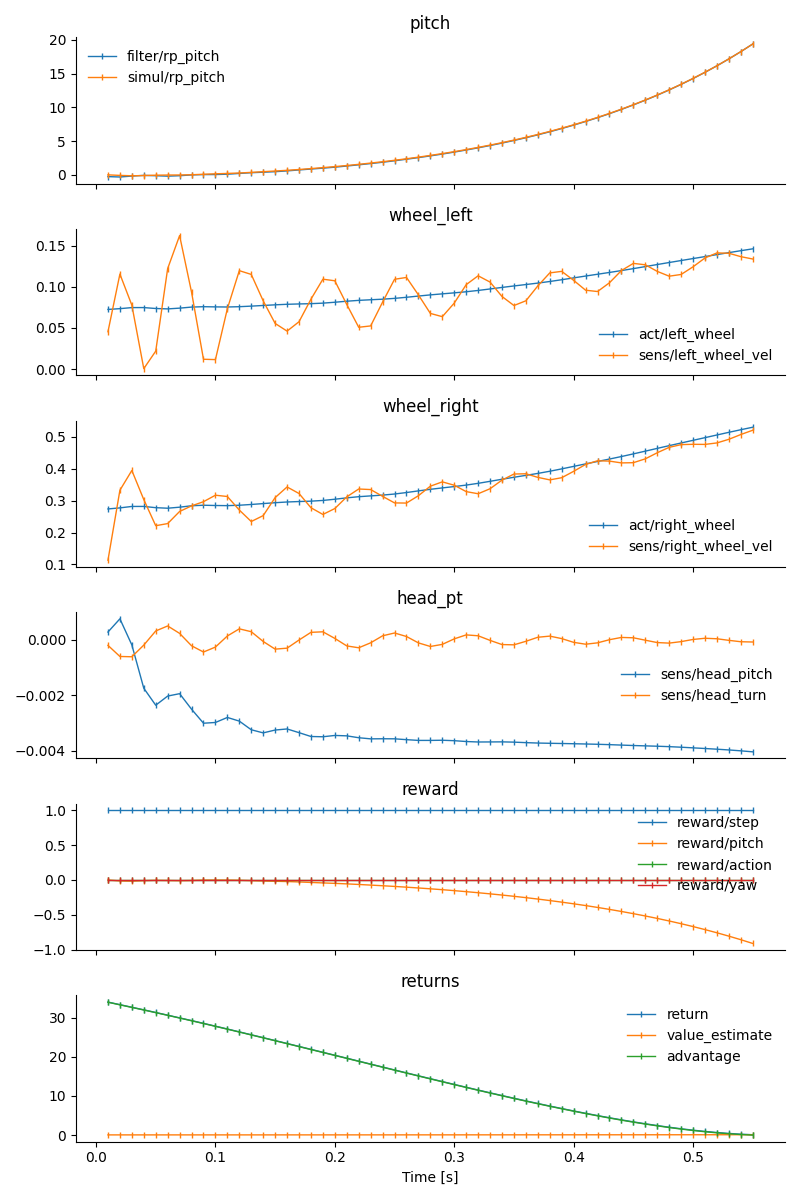
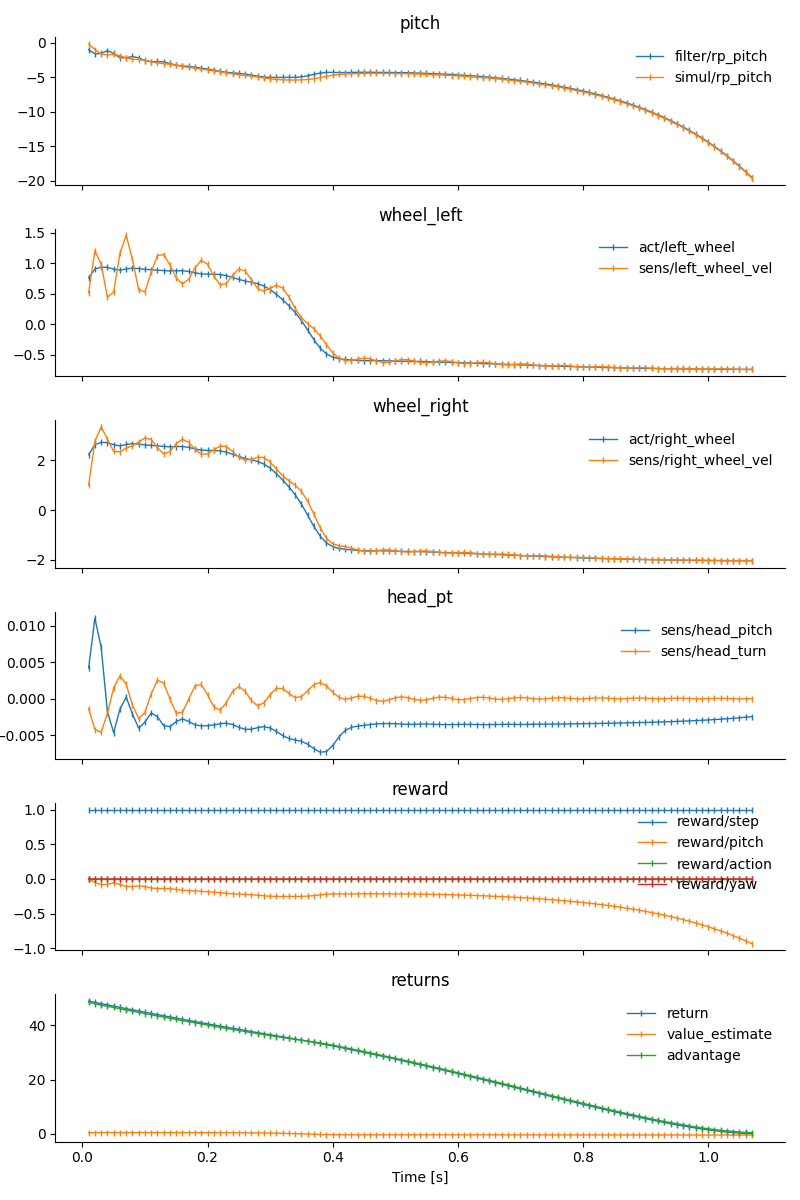
Versions.

diff --git a/src/sim/rl_rp.py b/src/sim/rl_rp.py
@@ -56,6 +56,5 @@ if __name__ == "__main__":
             if mean_ret > (MAX_RETURN + 5):
                 print(f"Best return {mean_ret:.02f} -> saving", flush=True)
                 agent.net.store()
-                agent.value_net.store()
                 MAX_RETURN = mean_ret
             print(f"Episode {episode:<6d} ({NROLLOUTS} rollouts) --> {mean_ret:.3f}", flush=True)
